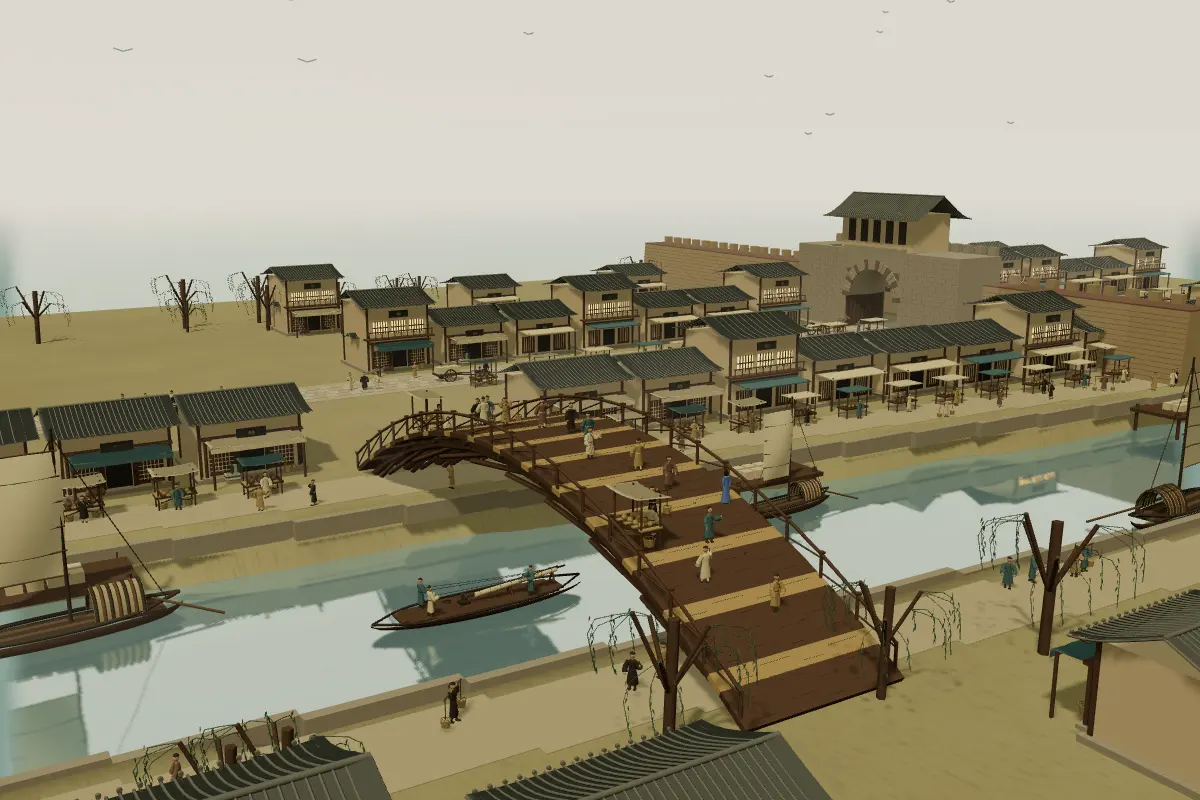
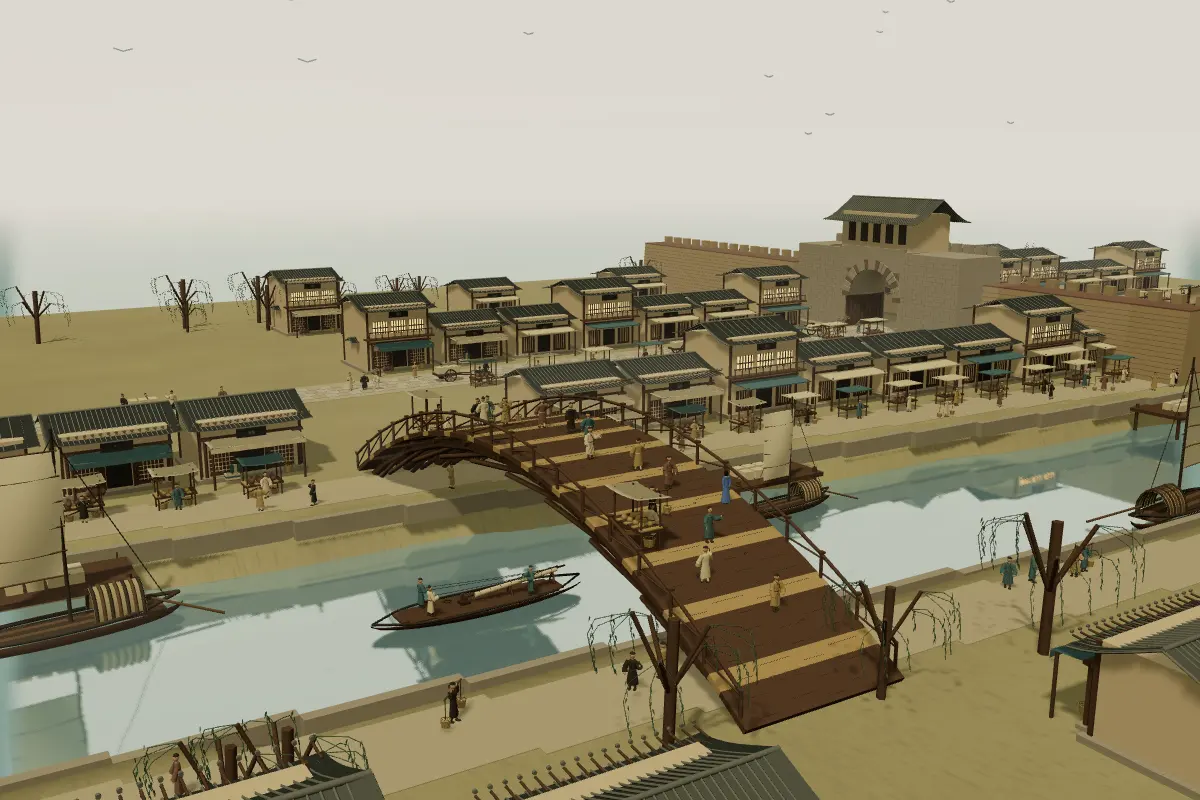
Lower Qingming roof lines and simplify source link

diff --git a/src/engine/qingmingScroll.ts b/src/engine/qingmingScroll.ts
@@ -27,6 +27,7 @@ function beam(g: THREE.Group, a: Point, b: Point, r: number, material: THREE.Mat
 function thatchedHouse(m: StreetMaterials, width: number, depth: number): THREE.Group {
   const g = new THREE.Group();
   g.name = 'qingming-rural-thatched-house';
+  const roofDrop = 0.35;
   box(g, [width, 2.6, depth], [0, 1.3, 0], m.earth);
   box(g, [1.05, 1.9, 0.05], [0.4, 0.95, depth / 2 + 0.04], m.dark);
   const openDoor = box(g, [0.8, 1.9, 0.09], [1.16, 0.95, depth / 2 + 0.32], m.wood);
@@ -38,13 +39,13 @@ function thatchedHouse(m: StreetMaterials, width: number, depth: number): THREE.
       new THREE.Float32BufferAttribute(
         [
           (side * width) / 2,
-          2.6,
+          2.6 - roofDrop,
           -depth / 2,
           (side * width) / 2,
-          2.6,
+          2.6 - roofDrop,
           depth / 2,
           (side * width) / 2,
-          4,
+          4 - roofDrop,
           0,
         ],
         3,
@@ -58,22 +59,22 @@ function thatchedHouse(m: StreetMaterials, width: number, depth: number): THREE.
     box(g, [0.16, 2.7, 0.16], [side * (width / 2 - 0.16), 1.35, depth / 2], m.wood);
     const verts = [
       -width / 2 - 0.35,
-      4,
+      4 - roofDrop,
       0,
       width / 2 + 0.35,
-      4,
+      4 - roofDrop,
       0,
       -width / 2 - 0.45,
-      2.65,
+      2.65 - roofDrop,
       side * (depth / 2 + 0.55),
       width / 2 + 0.35,
-      4,
+      4 - roofDrop,
       0,
       width / 2 + 0.45,
-      2.65,
+      2.65 - roofDrop,
       side * (depth / 2 + 0.55),
       -width / 2 - 0.45,
-      2.65,
+      2.65 - roofDrop,
       side * (depth / 2 + 0.55),
     ];
     const geo = new THREE.BufferGeometry();
@@ -91,14 +92,24 @@ function thatchedHouse(m: StreetMaterials, width: number, depth: number): THREE.
         const end = Math.min(1.04, t + 0.43 + Math.sin(straw * 3.7 + course) * 0.035);
         beam(
           g,
-          [x, 4.04 - t * 1.35, side * t * (depth / 2 + 0.55)],
-          [x + Math.sin(straw) * 0.07, 4.04 - end * 1.35, side * end * (depth / 2 + 0.55)],
+          [x, 4.04 - roofDrop - t * 1.35, side * t * (depth / 2 + 0.55)],
+          [
+            x + Math.sin(straw) * 0.07,
+            4.04 - roofDrop - end * 1.35,
+            side * end * (depth / 2 + 0.55),
+          ],
           0.026,
           (straw + course) % 3 ? m.linen : m.wood,
         );
       }
   }
-  beam(g, [-width / 2 - 0.4, 4.06, 0], [width / 2 + 0.4, 4.06, 0], 0.085, m.wood);
+  beam(
+    g,
+    [-width / 2 - 0.4, 4.06 - roofDrop, 0],
+    [width / 2 + 0.4, 4.06 - roofDrop, 0],
+    0.085,
+    m.wood,
+  );
   box(g, [0.85, 0.72, 0.04], [-width * 0.28, 1.6, depth / 2 + 0.04], m.dark);
   for (let i = 0; i < 5; i++)
     box(g, [0.04, 0.7, 0.05], [-width * 0.28 - 0.32 + i * 0.16, 1.6, depth / 2 + 0.08], m.wood);

diff --git a/src/engine/qingming.ts b/src/engine/qingming.ts
@@ -142,6 +142,10 @@ export function* buildQingmingSteps(painting: Painting): Generator<void, THREE.G
     rod(g, v(a), v(b), r, m, 1, 5);
 
   function roof(g: THREE.Group, w: number, d: number, y: number, h: number, detail = true) {
+    // The source profile is intentionally generous at the eaves. Sink the
+    // complete roof into the wall cap so the dark underside cannot read as a
+    // detached/floating slab from the gallery camera.
+    y -= 0.45;
     const vertices: number[] = [],
       indices: number[] = [];
     const columns = detail ? 8 : 4,

diff --git a/src/App.tsx b/src/App.tsx
@@ -535,7 +535,6 @@ export function App() {
               <ArrowRight size={23} />
             </button>
             <button className="original-link" onClick={() => setModal('original')}>
-              <ImageSquare size={18} />
               <span>查看原作与出处</span>
             </button>
           </section>

diff --git a/src/styles.css b/src/styles.css
@@ -1976,8 +1976,7 @@ button {
   text-underline-offset: 4px;
 }
 .original-link {
-  display: grid;
-  grid-template-columns: 18px max-content;
+  display: inline-flex;
   margin-top: 10px;
   width: max-content;
   max-width: 100%;
